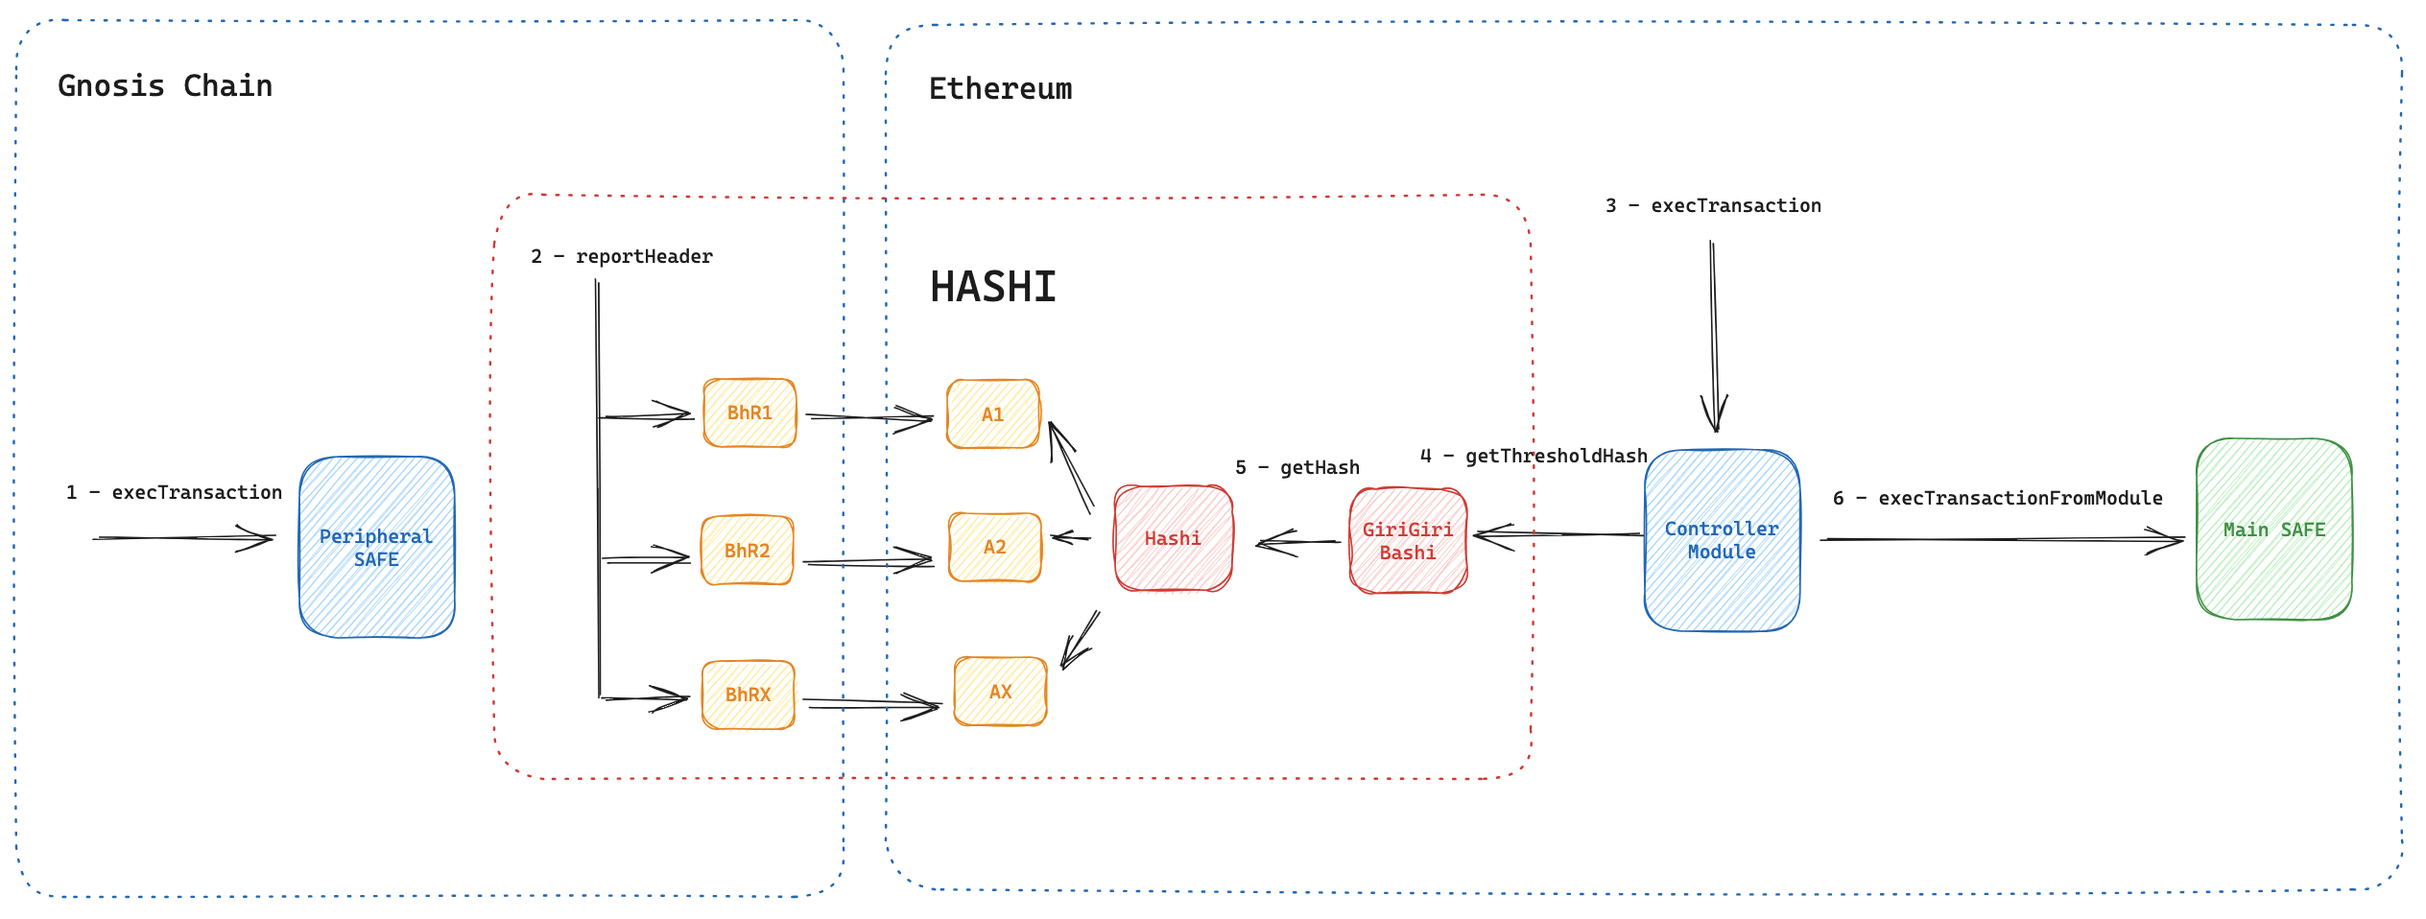
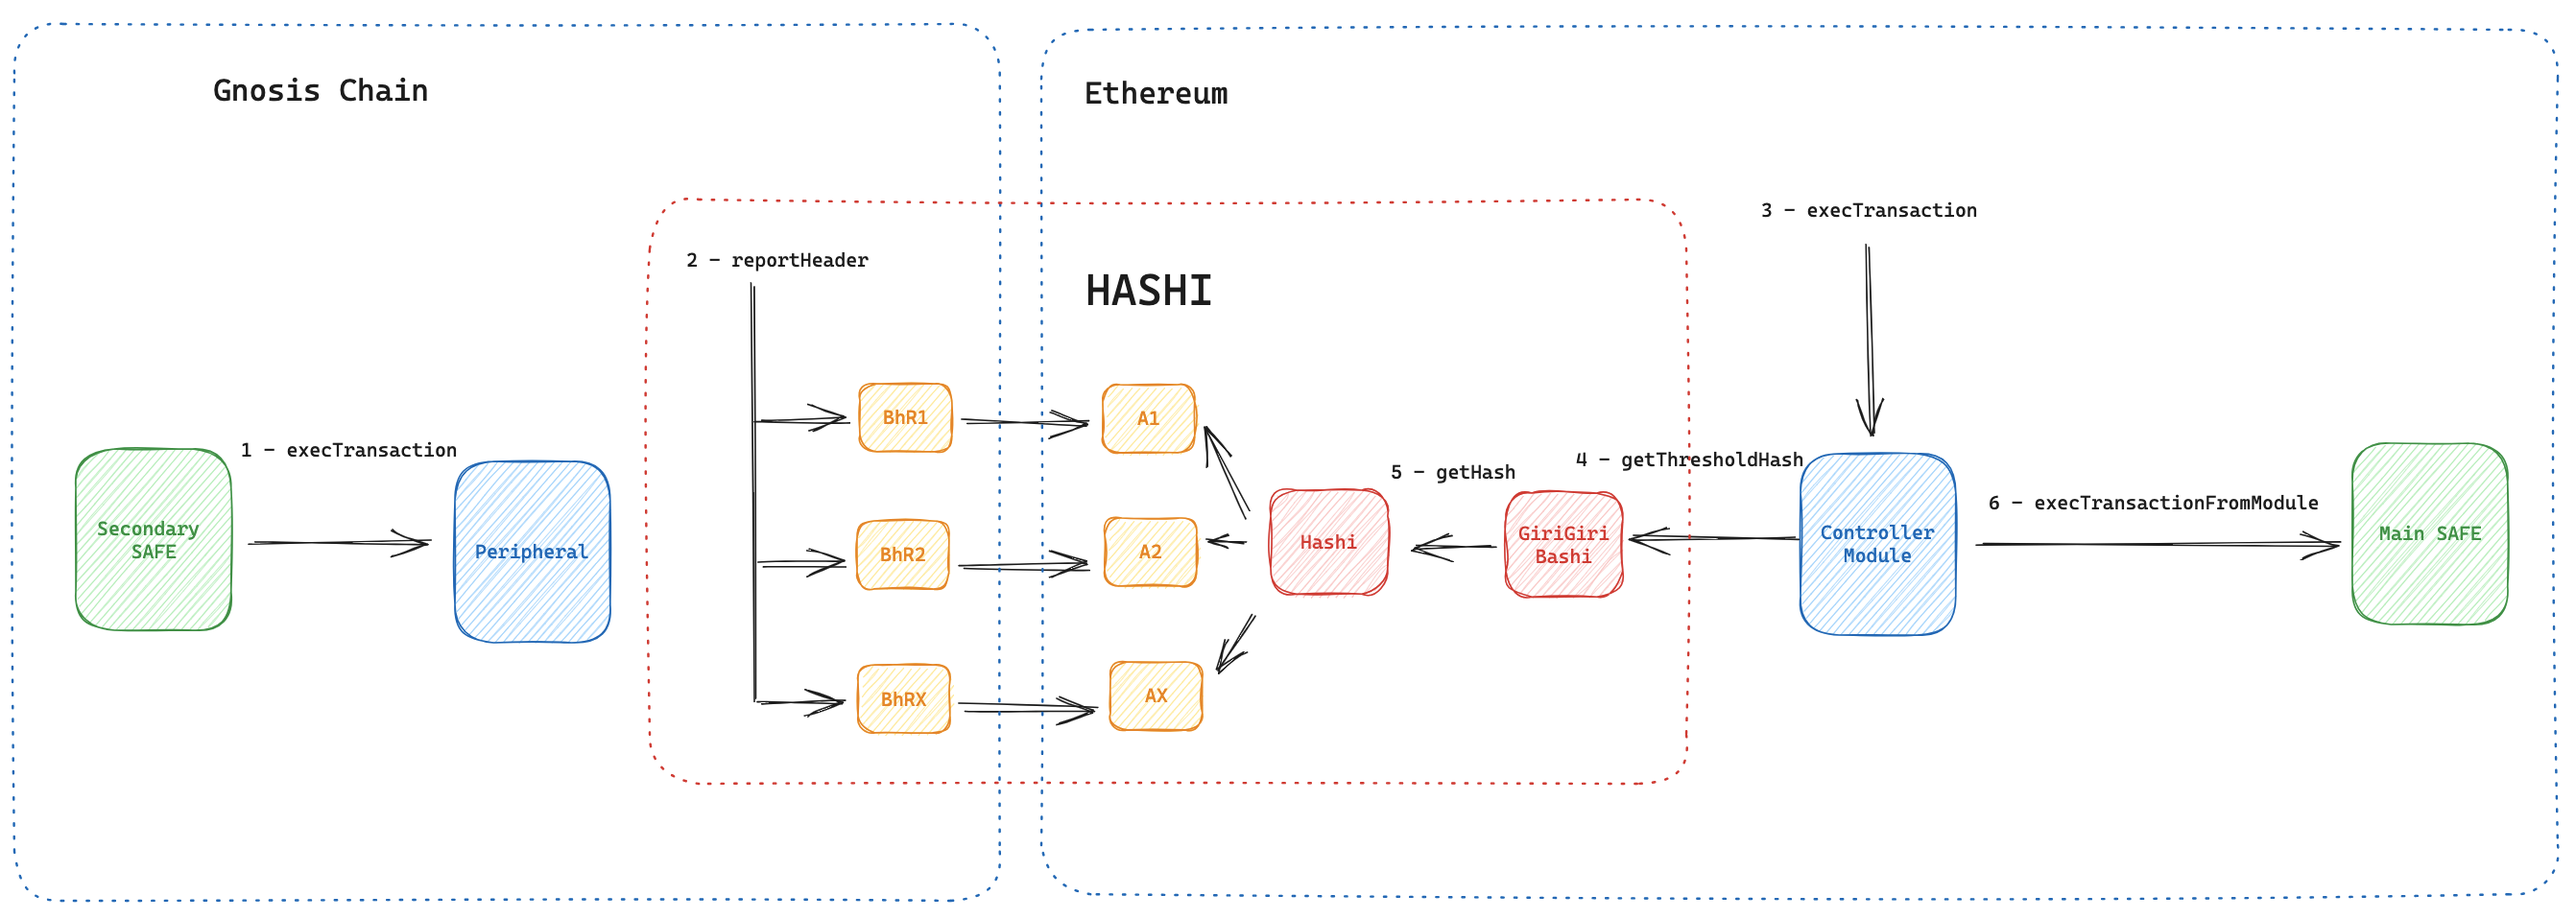
chore(README): adds secondary safe ref

diff --git a/README.md b/README.md
@@ -18,7 +18,7 @@ Safe Crosschain is a mechanism crafted to empower users with the ability to cont
 
 ## How it works
 
-1. Begin by deploying two Safes - the main Safe and the `Peripheral` Safe. Attach a module called `ControllerModule` to the main Safe.
+1. Begin by deploying two Safes - the main Safe and the Secondary Safe. Attach a module called `ControllerModule` to the main Safe.
 
 2. Users wishing to execute a cross-chain transaction should call `execTransaction` on the `Peripheral` Safe which just writes in storage a commitment corresponding to the used function parameters.
 
